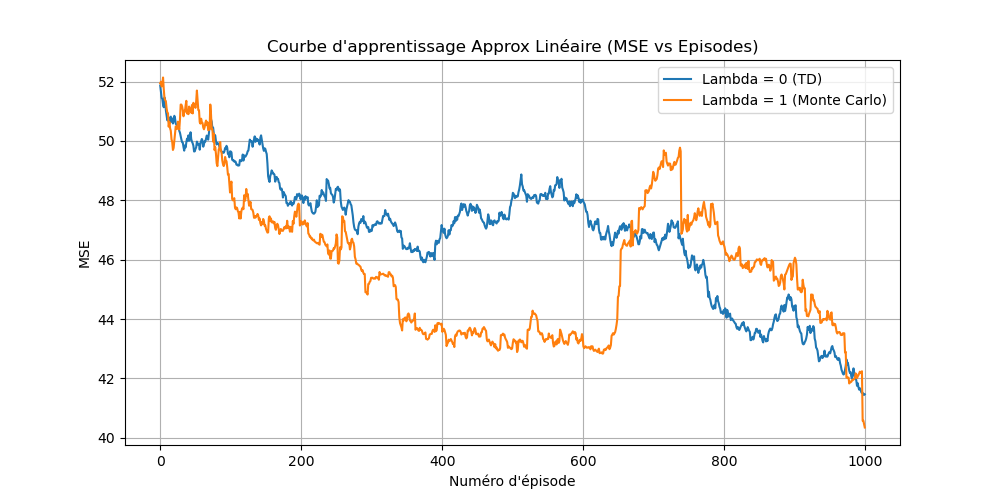
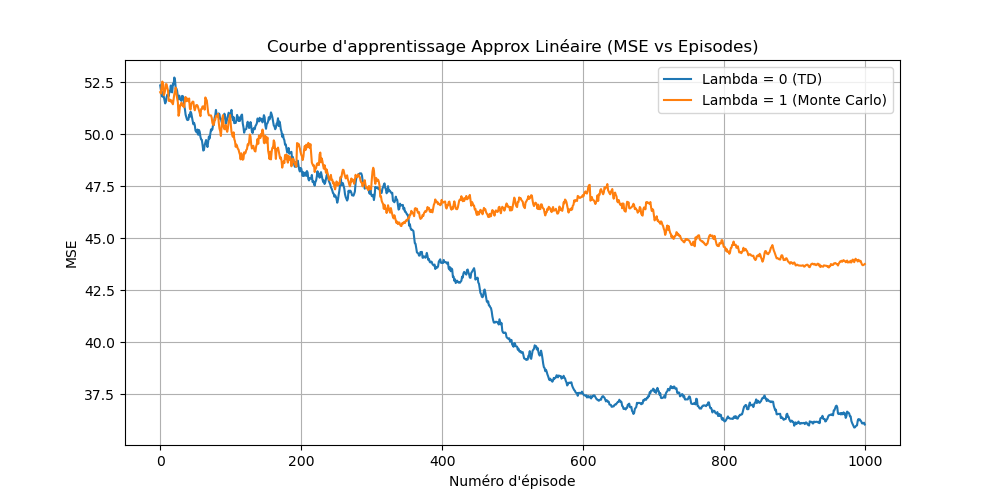
Mattéo avance

diff --git a/approximation_lineaire.py b/approximation_lineaire.py
@@ -2,149 +2,206 @@ import numpy as np
 import matplotlib.pyplot as plt
 import easy21
 import pickle
+import time
 
-# Paramètres
-N0 = 100
-LAMBDAS = [0.0, 0.1, 0.2, 0.3, 0.4, 0.5, 0.6, 0.7, 0.8, 0.9, 1.0]
-EPISODES_PER_LAMBDA = 1000 
+# --- 1. Pré-calcul des Features (Optimisation Majeure) ---
 
-def construct_coarse_coding_q_table():
+def compute_single_feature_vector(state, action):
+    """
+    Fonction auxiliaire pour calculer phi(s, a).
+    Utilisée une seule fois au démarrage pour remplir la table de pré-calcul.
+    """
+    dealer_card, player_sum = state
+    
+    # Initialisation du tenseur 3x6x2
+    phi = np.zeros((3, 6, 2))
+    
+    # Définition des intervalles (inclusifs)
+    dealer_intervals = [(1, 4), (4, 7), (7, 10)]
+    player_intervals = [(1, 6), (4, 9), (7, 12), (10, 15), (13, 18), (16, 21)]
+    
+    # Remplissage
+    for i, (d_min, d_max) in enumerate(dealer_intervals):
+        if d_min <= dealer_card <= d_max:
+            for j, (p_min, p_max) in enumerate(player_intervals):
+                if p_min <= player_sum <= p_max:
+                    phi[i, j, action] = 1.0
+                    
+    return phi.flatten()
 
-    phi = np.zeros
+def precompute_all_features():
+    """
+    Génère un tenseur global PHI de taille (10, 21, 2, 36) contenant
+    tous les vecteurs de caractéristiques possibles.
+    """
+    print("Pré-calcul des vecteurs de caractéristiques...", end="")
+    # Dimensions : Dealer(1-10), Player(1-21), Action(0-1), Features(36)
+    phi_table = np.zeros((10, 21, 2, 36))
+    
+    for d in range(1, 11):
+        for p in range(1, 22):
+            for a in range(2):
+                phi_table[d-1, p-1, a] = compute_single_feature_vector((d, p), a)
+    
+    print(" Terminé.")
+    return phi_table
 
-    return q_table
+# Variable globale pour stocker les features pré-calculées
+PHI = precompute_all_features()
 
 
+# --- 2. Sarsa(lambda) avec approximation linéaire optimisé ---
 
-
-
-
-
-
-
-
-
-class SarsaAgent_with_coarse_coding:
+class SarsaApproxAgent:
     def __init__(self, lmbda):
         self.lmbda = lmbda
-        self.q_table = np.zeros((10, 21, 2))
-        self.n_state = np.zeros((10, 21))
-        self.n_state_action = np.zeros((10, 21, 2))
-        # Trace d'éligibilité
-        self.e_trace = np.zeros((10, 21, 2))
+        self.epsilon = 0.05  # Exploration constante
+        self.alpha = 0.01    # Pas d'apprentissage constant
+        self.theta = np.zeros(36) # Paramètres à apprendre
+        self.e_trace = np.zeros(36)
+
+    def get_phi(self, state, action):
+        """Récupération rapide O(1) depuis la table pré-calculée"""
+        d_idx = state[0] - 1
+        p_idx = state[1] - 1
+        # Vérification de sécurité pour les bornes (optionnelle mais recommandée)
+        if not (0 <= d_idx < 10 and 0 <= p_idx < 21):
+            return np.zeros(36)
+        return PHI[d_idx, p_idx, action]
+
+    def get_q_value(self, state, action):
+        """Calcule Q(s,a) = phi(s,a)^T * theta"""
+        phi = self.get_phi(state, action)
+        return np.dot(phi, self.theta)
 
     def get_action(self, state):
-        d_idx, p_idx = state[0]-1, state[1]-1
-        epsilon = N0 / (N0 + self.n_state[d_idx, p_idx])
-        
-        if np.random.random() < epsilon:
+        """Stratégie epsilon-greedy constante"""
+        if np.random.random() < self.epsilon:
             return np.random.randint(0, 2)
         else:
-            values = self.q_table[d_idx, p_idx, :]
-            return np.random.choice(np.flatnonzero(values == values.max()))
+            # Calcul vectorisé pour les deux actions
+            # On récupère les features pour les deux actions d'un coup
+            # Note: On pourrait optimiser encore plus ici, mais c'est déjà rapide
+            q_hit = self.get_q_value(state, 0)   # Action 0 (Stick ? Vérifier mapping easy21)
+            # Attention : Dans easy21 standard, 0=stick, 1=hit. 
+            # Ton code original utilisait get_q_value(state, 0) et (state, 1)
+            
+            q_stick = self.get_q_value(state, 1) # Action 1
+            
+            # Gestion des égalités stricte (bien que rare avec des float)
+            if q_hit > q_stick:
+                return 0
+            elif q_stick > q_hit:
+                return 1
+            else:
+                return np.random.choice([0, 1])
 
     def train_episode(self):
-        """Joue un seul épisode et retourne l'erreur quadratique (si Q* fourni)"""
         state = easy21.init_game()
         action = self.get_action(state)
-        self.e_trace[:] = 0.0 # Reset traces au début de l'épisode
+        self.e_trace[:] = 0.0 # Reset traces
         
         terminal = False
         while not terminal:
-            d_idx, p_idx = state[0]-1, state[1]-1
+            # Récupération feature courante (Lookup O(1))
+            phi = self.get_phi(state, action)
             
-            # Incrément compteurs
-            self.n_state[d_idx, p_idx] += 1
-            self.n_state_action[d_idx, p_idx, action] += 1
-            
-            # Exécution action
             next_state, reward, terminal = easy21.step(state, action)
             
-            # Choix action suivante (s', a')
             if not terminal:
                 next_action = self.get_action(next_state)
-                q_next = self.q_table[next_state[0]-1, next_state[1]-1, next_action]
+                q_next = self.get_q_value(next_state, next_action)
             else:
                 next_action = 0
                 q_next = 0.0
-            
-            q_current = self.q_table[d_idx, p_idx, action]
+                
+            q_current = np.dot(phi, self.theta)
             
             # Erreur TD
             delta = reward + q_next - q_current
             
-            # Mise à jour trace (Accumulating traces)
-            self.e_trace[d_idx, p_idx, action] += 1
+            # Mise à jour des traces (accumulées)
+            self.e_trace = self.lmbda * self.e_trace + phi
             
-            # Alpha variable
-            alpha = 1.0 / self.n_state_action[d_idx, p_idx, action]
-            
-            # Mise à jour de TOUS les états via la trace
-            # Q(s,a) <- Q(s,a) + alpha * delta * E(s,a)
-            # Note: On utilise l'alpha de l'état visité pour l'update global (standard approx)
-            self.q_table += alpha * delta * self.e_trace
-            
-            # Décroissance trace
-            self.e_trace *= self.lmbda # gamma = 1, donc juste lambda
+            # Mise à jour des poids theta
+            self.theta += self.alpha * delta * self.e_trace
             
             state = next_state
             action = next_action
 
+# --- 3. Analyse des résultats (Version Vectorisée) ---
+
+def get_full_q_table_fast(agent):
+    """
+    Reconstruit la table Q complète (10x21x2) instantanément
+    par produit tensoriel : Q = PHI . theta
+    """
+    # PHI shape: (10, 21, 2, 36)
+    # theta shape: (36,)
+    # tensordot sur le dernier axe de PHI et l'axe 0 de theta
+    return np.tensordot(PHI, agent.theta, axes=([3], [0]))
+
 def compute_mse(q_pred, q_star):
-    """Calcule MSE sur tous les états et actions"""
-    # MSE = sum((Q - Q*)^2)
     return np.sum((q_pred - q_star)**2)
 
 if __name__ == "__main__":
-    # Charger la vérité terrain Q*
+    # Chargement de la vérité terrain Q*
     try:
         with open('q_star.pkl', 'rb') as f:
             q_star = pickle.load(f)
     except FileNotFoundError:
-        print("Erreur: Exécutez montecarlo.py d'abord pour générer q_star.pkl")
+        print("Erreur: q_star.pkl introuvable. Exécutez montecarlo.py d'abord.")
         exit()
 
+    LAMBDAS = [0.0, 0.1, 0.2, 0.3, 0.4, 0.5, 0.6, 0.7, 0.8, 0.9, 1.0]
+    EPISODES = 1000
+    
     final_mses = []
-    learning_curves = {} # Pour stocker lambda=0 et lambda=1
+    learning_curves = {}
 
-    print("Début de l'entraînement Sarsa(lambda)...")
+    print(f"Début de l'entraînement Sarsa(lambda) Approx ({EPISODES} épisodes par lambda)...")
+    start_time = time.time()
 
     for lmbda in LAMBDAS:
-        agent = SarsaAgent(lmbda)
+        agent = SarsaApproxAgent(lmbda)
         mse_history = []
         
-        for ep in range(EPISODES_PER_LAMBDA):
+        for ep in range(EPISODES):
             agent.train_episode()
-            # Calcul MSE après chaque épisode
-            mse = compute_mse(agent.q_table, q_star)
+            
+            # Calcul MSE optimisé (plus besoin d'attendre !)
+            q_pred = get_full_q_table_fast(agent)
+            mse = compute_mse(q_pred, q_star)
             mse_history.append(mse)
-        
-        final_mses.append(mse_history[-1])
-        print(f"Lambda {lmbda}: MSE finale = {mse_history[-1]:.4f}")
+            
+        final_mse = mse_history[-1]
+        final_mses.append(final_mse)
+        print(f"Lambda {lmbda:.1f}: MSE finale = {final_mse:.4f}")
         
         if lmbda == 0.0 or lmbda == 1.0:
             learning_curves[lmbda] = mse_history
 
-    # --- Plot 1: MSE vs Lambda ---
+    duration = time.time() - start_time
+    print(f"\nEntraînement terminé en {duration:.2f} secondes.")
+
+    # --- Tracé 1: MSE vs Lambda ---
     plt.figure(figsize=(10, 5))
-    plt.plot(LAMBDAS, final_mses, marker='o')
-    plt.title('MSE vs Lambda (après 1000 épisodes)')
+    plt.plot(LAMBDAS, final_mses, marker='o', color='purple')
+    plt.title('MSE vs Lambda (Approx Linéaire, 1000 épisodes)')
     plt.xlabel('Lambda')
     plt.ylabel('Mean Squared Error')
     plt.grid(True)
-    plt.savefig('mse_vs_lambda.png')
+    plt.savefig('mse_vs_lambda_approx.png')
     plt.show()
-    
 
-    # --- Plot 2: Learning Curves (Lambda 0 vs 1) ---
+    # --- Tracé 2: Courbes d'apprentissage ---
     plt.figure(figsize=(10, 5))
     plt.plot(learning_curves[0.0], label='Lambda = 0 (TD)')
     plt.plot(learning_curves[1.0], label='Lambda = 1 (Monte Carlo)')
-    plt.title('Courbe d\'apprentissage (MSE vs Episodes)')
+    plt.title('Courbe d\'apprentissage Approx Linéaire (MSE vs Episodes)')
     plt.xlabel('Numéro d\'épisode')
     plt.ylabel('MSE')
     plt.legend()
     plt.grid(True)
-    plt.savefig('learning_curves.png')
+    plt.savefig('learning_curves_approx.png')
     plt.show()
-    

diff --git a/sarsa.py b/sarsa.py
@@ -111,7 +111,7 @@ if __name__ == "__main__":
             learning_curves[lmbda] = mse_history
 
 
-    mc.plot_value_function(agent.q_table)
+    
 
     # --- Plot 1: MSE vs Lambda ---
     plt.figure(figsize=(10, 5))
